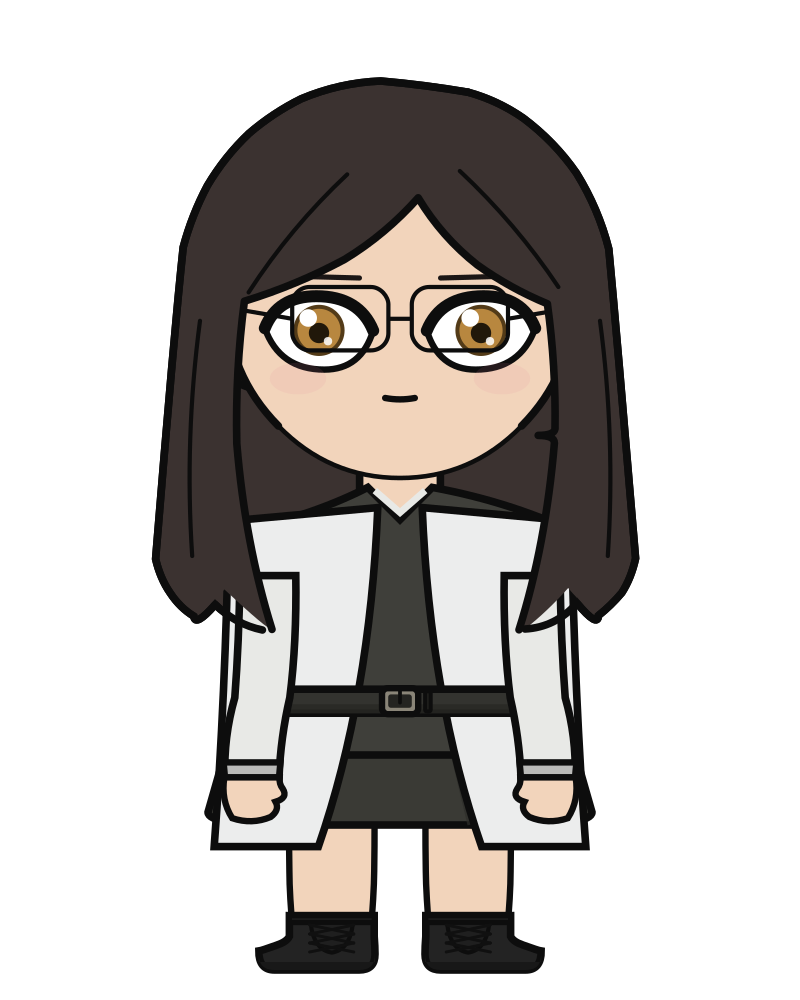
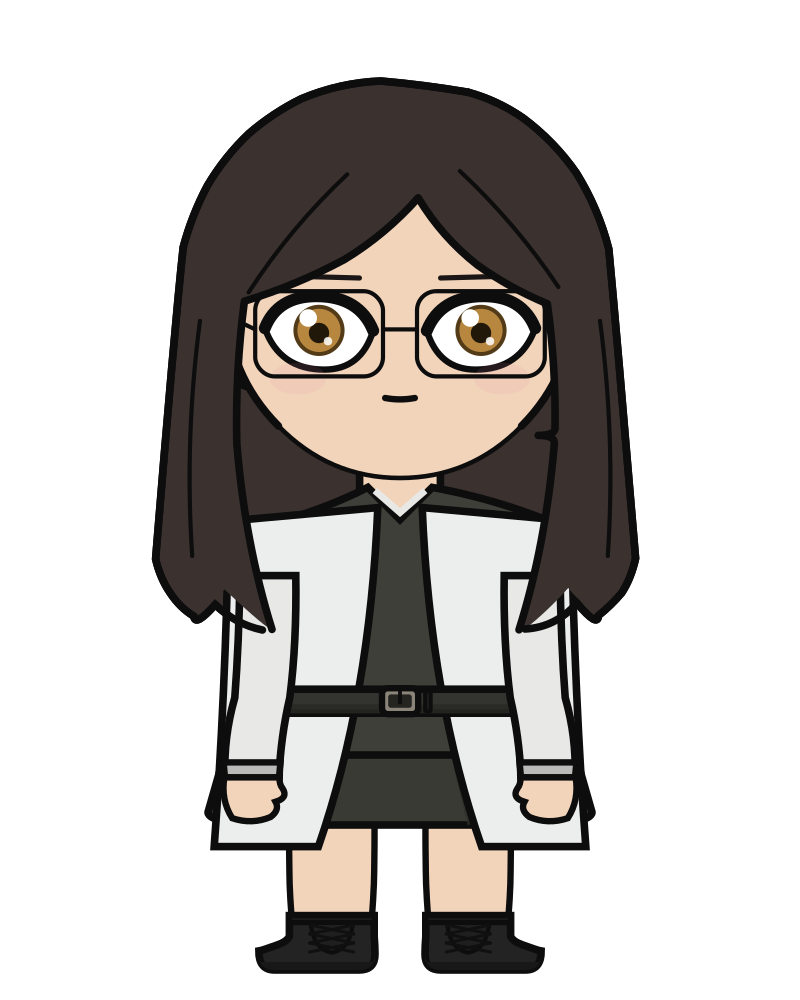
fix keiko's glasses

Changed region(s): [[0.3125, 0.279, 0.6562, 0.403], [0.625, 0.31, 0.6875, 0.372]]

diff --git a/src/anime_character_creator/character.py b/src/anime_character_creator/character.py
@@ -2571,6 +2571,14 @@ def _beard(sk: Skeleton, p: CharacterParams) -> str:
     )
 
 
+# How far outside the aperture's own bounding box the rim sits. A rounded rect
+# is not an almond, so a rim drawn tight against the eye's exact extremes clips
+# the corners; this is the same kind of clearance `_SCARF_CLEAR` gives a cap over
+# hair, sized larger because a rim's rounded corner cuts in further than a cloth
+# hem does.
+_GLASSES_CLEAR = 1.18
+
+
 def _glasses(sk: Skeleton, p: CharacterParams) -> str:
     """Fine wire spectacles: two rims and a bridge, no lenses.
 
@@ -2578,36 +2586,50 @@ def _glasses(sk: Skeleton, p: CharacterParams) -> str:
     over the iris and would take the eye colour with it, and the eye is the one
     thing on a face that has to survive being shrunk.
 
-    Sized off the eye rather than off the head, so a rim always frames the eye it
-    belongs to however that character's aperture is tuned.
+    Sized off the eye's own aperture rather than a second guess at it. This used
+    to carry its own copy of every number `_eye_placement` returns, at different
+    values, `eye_dx` 0.34 against the real 0.46 and `eye_y` at `+0.10` against
+    the real `+0.16` among them, so the rim sat closer to the nose and lower than
+    the eye it was meant to frame and the eye showed outside it on two sides.
+    `_eye_placement` is now the only definition of where an eye is, and
+    `_eye_shape`'s own half extents are the only definition of how big the
+    aperture is, so a rim built from both cannot drift off the eye however
+    a character's face is tuned.
     """
     if not p.face.glasses:
         return ""
     cx, cy, r = sk.head_cx, sk.head_cy, sk.head_r
-    f = p.face
+    eye_dx, eye_y, eye_r, f = _eye_placement(sk, p)
     sw = _stroke_w(sk)
-    # The same two numbers `_face` places an eye with, so the rim cannot drift
-    # off the eye when a character's aperture changes.
-    eye_dx = r * 0.34
-    eye_y = cy + r * 0.10
-    rw = r * 0.26 * f.eye_width
-    rh = r * 0.20 * f.eye_size
+    # The aperture's own half extents, in the same terms `_eye_shape` builds it
+    # from: apex and base sit exactly at `top` and `bot`, and the inner and outer
+    # corners exactly at `w`, so this is the aperture's true bounding box rather
+    # than an approximation of it.
+    half_w = eye_r * f.eye_width * _EYE_ASPECT * _GLASSES_CLEAR
+    top_h = eye_r * f.eye_openness * _GLASSES_CLEAR
+    bot_h = eye_r * f.eye_lower_lid * _GLASSES_CLEAR
     stroke = f'fill="none" stroke="{OUTLINE}" stroke-width="{sw * 0.55:.1f}"'
     parts = [
-        f'<rect x="{cx + s * eye_dx - rw:.1f}" y="{eye_y - rh:.1f}" '
-        f'width="{rw * 2:.1f}" height="{rh * 2:.1f}" rx="{rh * 0.55:.1f}" {stroke} />'
+        f'<rect x="{cx + s * eye_dx - half_w:.1f}" y="{eye_y - top_h:.1f}" '
+        f'width="{half_w * 2:.1f}" height="{top_h + bot_h:.1f}" '
+        f'rx="{min(half_w, top_h + bot_h) * 0.3:.1f}" {stroke} />'
         for s in (-1, 1)
     ]
     parts.append(
-        f'<path d="M {cx - eye_dx + rw:.1f} {eye_y:.1f} L {cx + eye_dx - rw:.1f} {eye_y:.1f}" '
-        f"{stroke} />"
+        f'<path d="M {cx - eye_dx + half_w:.1f} {eye_y:.1f} '
+        f'L {cx + eye_dx - half_w:.1f} {eye_y:.1f}" {stroke} />'
     )
     # Arms to the temples, which is what stops the pair reading as two rings
-    # floating on the cheeks.
+    # floating on the cheeks. Read off the skull at the height the arm actually
+    # leaves at, rather than a second guess at eye height: the arm used to query
+    # the skull's edge at a fixed 0.10 head radii while the eye it left from sat
+    # at 0.16, which is the same drift as everything else here.
+    arm_y = eye_y - top_h * 0.35
+    arm_y_hr = (arm_y - cy) / r
     for s in (-1, 1):
         parts.append(
-            f'<path d="M {cx + s * (eye_dx + rw):.1f} {eye_y:.1f} '
-            f'L {cx + s * _head_edge_x(0.10, sk.build) * r:.1f} {eye_y - rh * 0.35:.1f}" {stroke} />'
+            f'<path d="M {cx + s * (eye_dx + half_w):.1f} {eye_y:.1f} '
+            f'L {cx + s * _head_edge_x(arm_y_hr, sk.build) * r:.1f} {arm_y:.1f}" {stroke} />'
         )
     return "".join(parts)
 
@@ -4204,14 +4226,25 @@ def _scar(sk: Skeleton, side: int) -> str:
     return line(0.52, 0.56, 0.65, 0.35, sw * 0.6) + line(0.55, 0.44, 0.63, 0.49, sw * 0.45)
 
 
-def _face(sk: Skeleton, p: CharacterParams) -> str:
+def _eye_placement(sk: Skeleton, p: CharacterParams) -> tuple[float, float, float, FaceStyle]:
+    """Where an eye sits and how big it is: `(eye_dx, eye_y, eye_r, face)`.
+
+    One source for both `_face` and `_glasses`, which is what `_glasses` claimed
+    to be reading and was not: it carried its own copy of every number here, at
+    different values, so the rims sat closer together and lower than the eyes
+    they were meant to frame. A second definition agrees with the first on the
+    day it is written and stops agreeing the moment either one is retuned, which
+    is the same failure `_MOUTH_Y` was pulled out to stop.
+
+    Returns the build-adjusted `FaceStyle` along with the geometry, not just the
+    numbers, because a caller sizing the aperture itself, the way `_glasses`
+    does, needs the lids at the values they are actually drawn at. The canon
+    lids the adult eye, almond where the chibi gets a round-open aperture, so
+    the adjustment happens once, here, rather than once per caller.
+    """
     r = sk.head_r
-    cx, cy = sk.head_cx, sk.head_cy
+    cy = sk.head_cy
     f = p.face
-    # The canon lids the adult eye: ref/satoko-real.jpg draws an almond where
-    # the chibi gets a round-open aperture, on the same character. Riding the
-    # lids on the build keeps that one construction, so a preset states its
-    # chibi eye and the taller build derives its own.
     if sk.build > 0:
         f = replace(
             f,
@@ -4228,6 +4261,13 @@ def _face(sk: Skeleton, p: CharacterParams) -> str:
     eye_y = cy + r * 0.16
     eye_dx = r * 0.46
     eye_r = r * 0.26 * (1.0 - 0.22 * sk.build) * f.eye_size
+    return eye_dx, eye_y, eye_r, f
+
+
+def _face(sk: Skeleton, p: CharacterParams) -> str:
+    r = sk.head_r
+    cx, cy = sk.head_cx, sk.head_cy
+    eye_dx, eye_y, eye_r, f = _eye_placement(sk, p)
     sw = _stroke_w(sk)
     # Brows are hair, so they carry the hair's own darker tone rather than the
     # outline color. On dark hair the difference vanishes, which is correct.

diff --git a/tests/test_smoke.py b/tests/test_smoke.py
@@ -835,6 +835,60 @@ def test_the_cap_covers_the_hair_it_is_tied_over(hairstyle: str, build: str) -> 
     assert sk.head_cx + rx * sk.head_r <= 400, f"the cap runs off the canvas at {rx:.3f}"
 
 
+@pytest.mark.parametrize("build", sorted(BUILDS))
+@pytest.mark.parametrize(
+    "face",
+    [
+        replace(PRESETS["keiko"].face, glasses=True),
+        replace(
+            PRESETS["keiko"].face, glasses=True, eye_width=1.3, eye_size=0.75, eye_openness=0.7
+        ),
+        replace(PRESETS["keiko"].face, glasses=True, eye_lower_lid=1.4, eye_openness=0.6),
+    ],
+    ids=["default", "wide-small", "asymmetric-lids"],
+)
+def test_the_glasses_frame_the_eye_rather_than_a_second_guess_at_it(face, build: str) -> None:
+    """Every rim actually contains the aperture it is drawn over.
+
+    `_glasses` used to carry its own copy of `_eye_placement`'s numbers, at
+    different values: `eye_dx` 0.34 against the real 0.46, `eye_y` at `+0.10`
+    against the real `+0.16`, a half width built from `eye_width` alone with
+    neither `eye_r` nor `_EYE_ASPECT`, a half height built from `eye_size`
+    where the aperture itself reads `eye_openness` and `eye_lower_lid`. None of
+    that showed up as an error, since a rim in roughly the right place still
+    renders; it showed up as the eye sitting outside its own glasses, which is
+    the owner's report on 2026-08-09.
+
+    Checked against the aperture's own corners rather than against
+    `_eye_placement`'s numbers a second time, which would only prove the two
+    functions still agree with each other and not that either agrees with what
+    is drawn. Three faces because the old code happened to roughly fit one
+    default aperture at one build; asymmetric lids is the case that a single
+    symmetric `rh` could never have held regardless of its value.
+    """
+    p = replace(PRESETS["keiko"], face=face)
+    sk = build_skeleton(heads=BUILDS[build], frame=p.frame)
+    svg = character._glasses(sk, p)
+    rects = re.findall(r'<rect x="([-\d.]+)" y="([-\d.]+)" width="([\d.]+)" height="([\d.]+)"', svg)
+    assert len(rects) == 2, f"expected two rims, found {len(rects)}"
+    eye_dx, eye_y, eye_r, f = character._eye_placement(sk, p)
+    for side, (x, y, w, h) in zip((-1, 1), rects, strict=True):
+        rim_left, rim_top = float(x), float(y)
+        rim_right, rim_bot = rim_left + float(w), rim_top + float(h)
+        ex = sk.head_cx + side * eye_dx
+        half_w = eye_r * f.eye_width * character._EYE_ASPECT
+        top_h = eye_r * f.eye_openness
+        bot_h = eye_r * f.eye_lower_lid
+        assert rim_left <= ex - half_w and rim_right >= ex + half_w, (
+            f"{build} side {side}: aperture spans {ex - half_w:.1f}-{ex + half_w:.1f} but the "
+            f"rim only spans {rim_left:.1f}-{rim_right:.1f}"
+        )
+        assert rim_top <= eye_y - top_h and rim_bot >= eye_y + bot_h, (
+            f"{build} side {side}: aperture spans {eye_y - top_h:.1f}-{eye_y + bot_h:.1f} but the "
+            f"rim only spans {rim_top:.1f}-{rim_bot:.1f}"
+        )
+
+
 def test_the_sheet_renders_and_stays_deterministic() -> None:
     p = sheet.SheetParams()
     svg = sheet.render_sheet(p)

diff --git a/docs/character-roster-plan.md b/docs/character-roster-plan.md
@@ -691,6 +691,40 @@ sets: it is what is left between two constants that know nothing about each
 other, so either can close it without appearing to do anything. It shipped once
 at 3.3 pixels of hair inside a 4 pixel outline.
 
+### The cap and the glasses: two parts sized against the bone under them
+
+Two more reports the same day, both the same shape of bug as each other and as
+`_hair_tail` and `_hair_knot` before them: a part that sits on top of something
+soft-edged, sized against the hard skeleton under it instead.
+
+**Chiyo's cap** took its width from `_head_edge_x`, the skull. On `long_traced`
+hair that is 0.975 head radii of cloth over 1.237 of hair, so a fifth of a head
+radius of hair stood outside the scarf tied over it. New `_hair_edge_x(y, sk, p)`
+walks the hairstyle's own mass contour for the widest crossing at a height,
+falling back to the skull where the hair does not reach; `_headscarf` reads its
+dome and its knot from that, at a small clearance so the cloth stands proud of
+the hair rather than landing exactly on its outline. Guarded across every
+hairstyle at both builds, since a scarf is a garment and anyone can wear one.
+
+**Keiko's glasses** were worse in a different way: not sized against the wrong
+thing, but against a *second, wrong copy* of the right thing. The docstring
+claimed to read "the same two numbers `_face` places an eye with," and did not:
+`eye_dx` 0.34 against the real 0.46, `eye_y` at `+0.10` against the real `+0.16`,
+a half width from `eye_width` alone with neither the eye's own scale nor its
+aspect, a half height from `eye_size` where the aperture reads `eye_openness`
+and `eye_lower_lid`. None of that is an error SVG can catch; a rim in roughly
+the right place still renders, and what shows up instead is the eye sitting
+outside its own glasses. New `_eye_placement(sk, p)` is now the one definition
+both `_face` and `_glasses` read, the same move `_MOUTH_Y` made for the beard.
+Guarded against the aperture's own drawn corners, not against `_eye_placement`'s
+numbers a second time, which would only prove the two functions agree with each
+other and not that either agrees with what is on the canvas.
+
+The lesson from all four is the same one stated once and then not applied
+everywhere: a garment or accessory has to read the surface it sits on, not the
+frame that surface is built from, and a comment claiming it does so is not a
+substitute for the two functions sharing code.
+
 ### Still below the line, and deliberately
 
 - **Krista's goggles.** Named in the table above as a first-draft feature and
